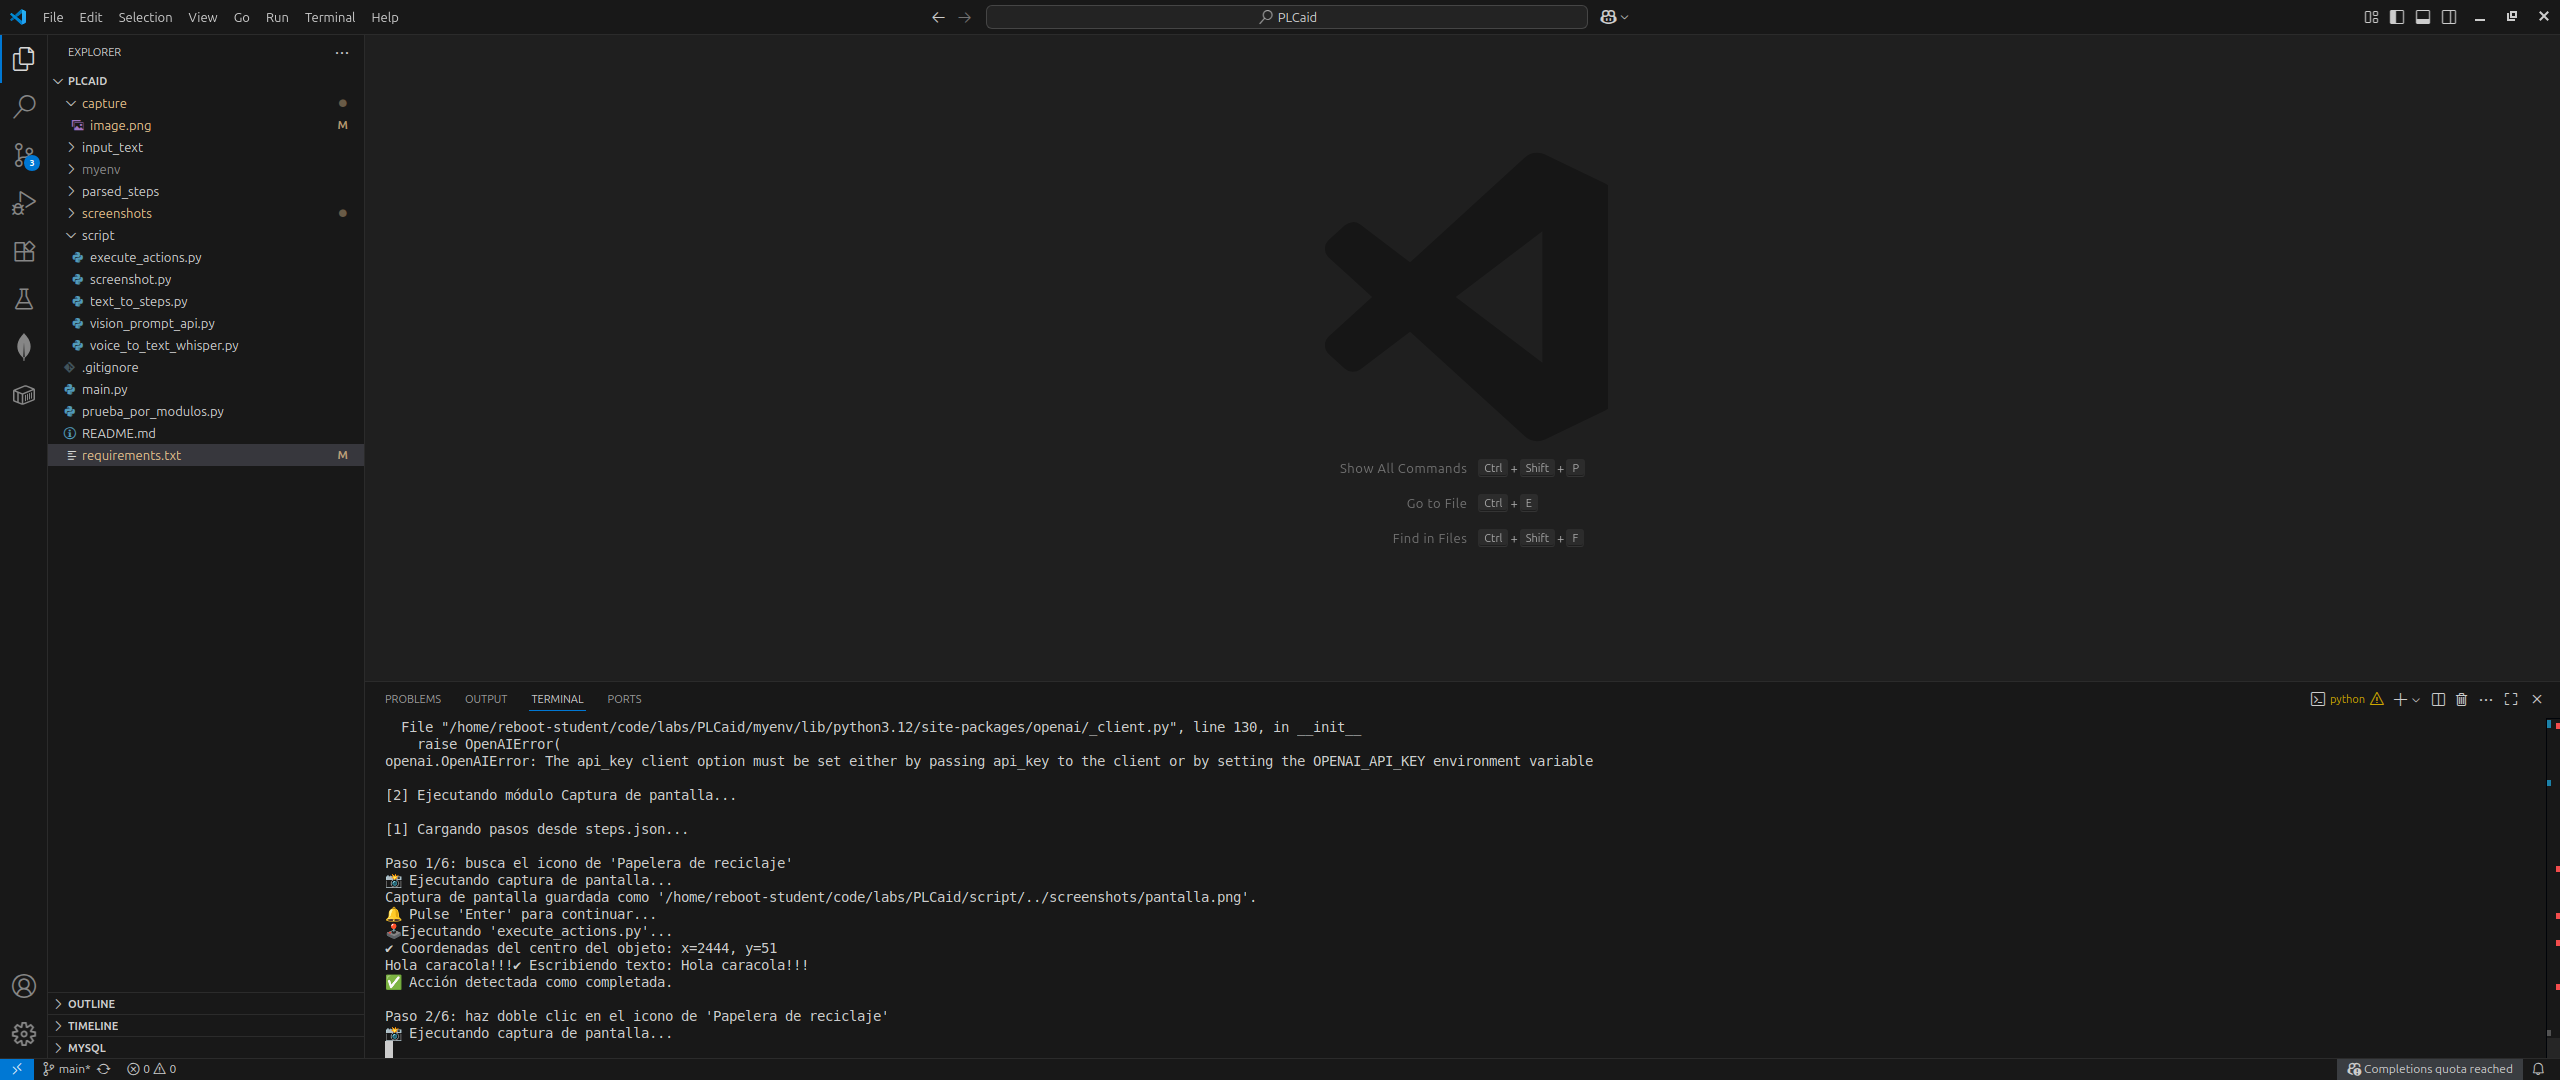
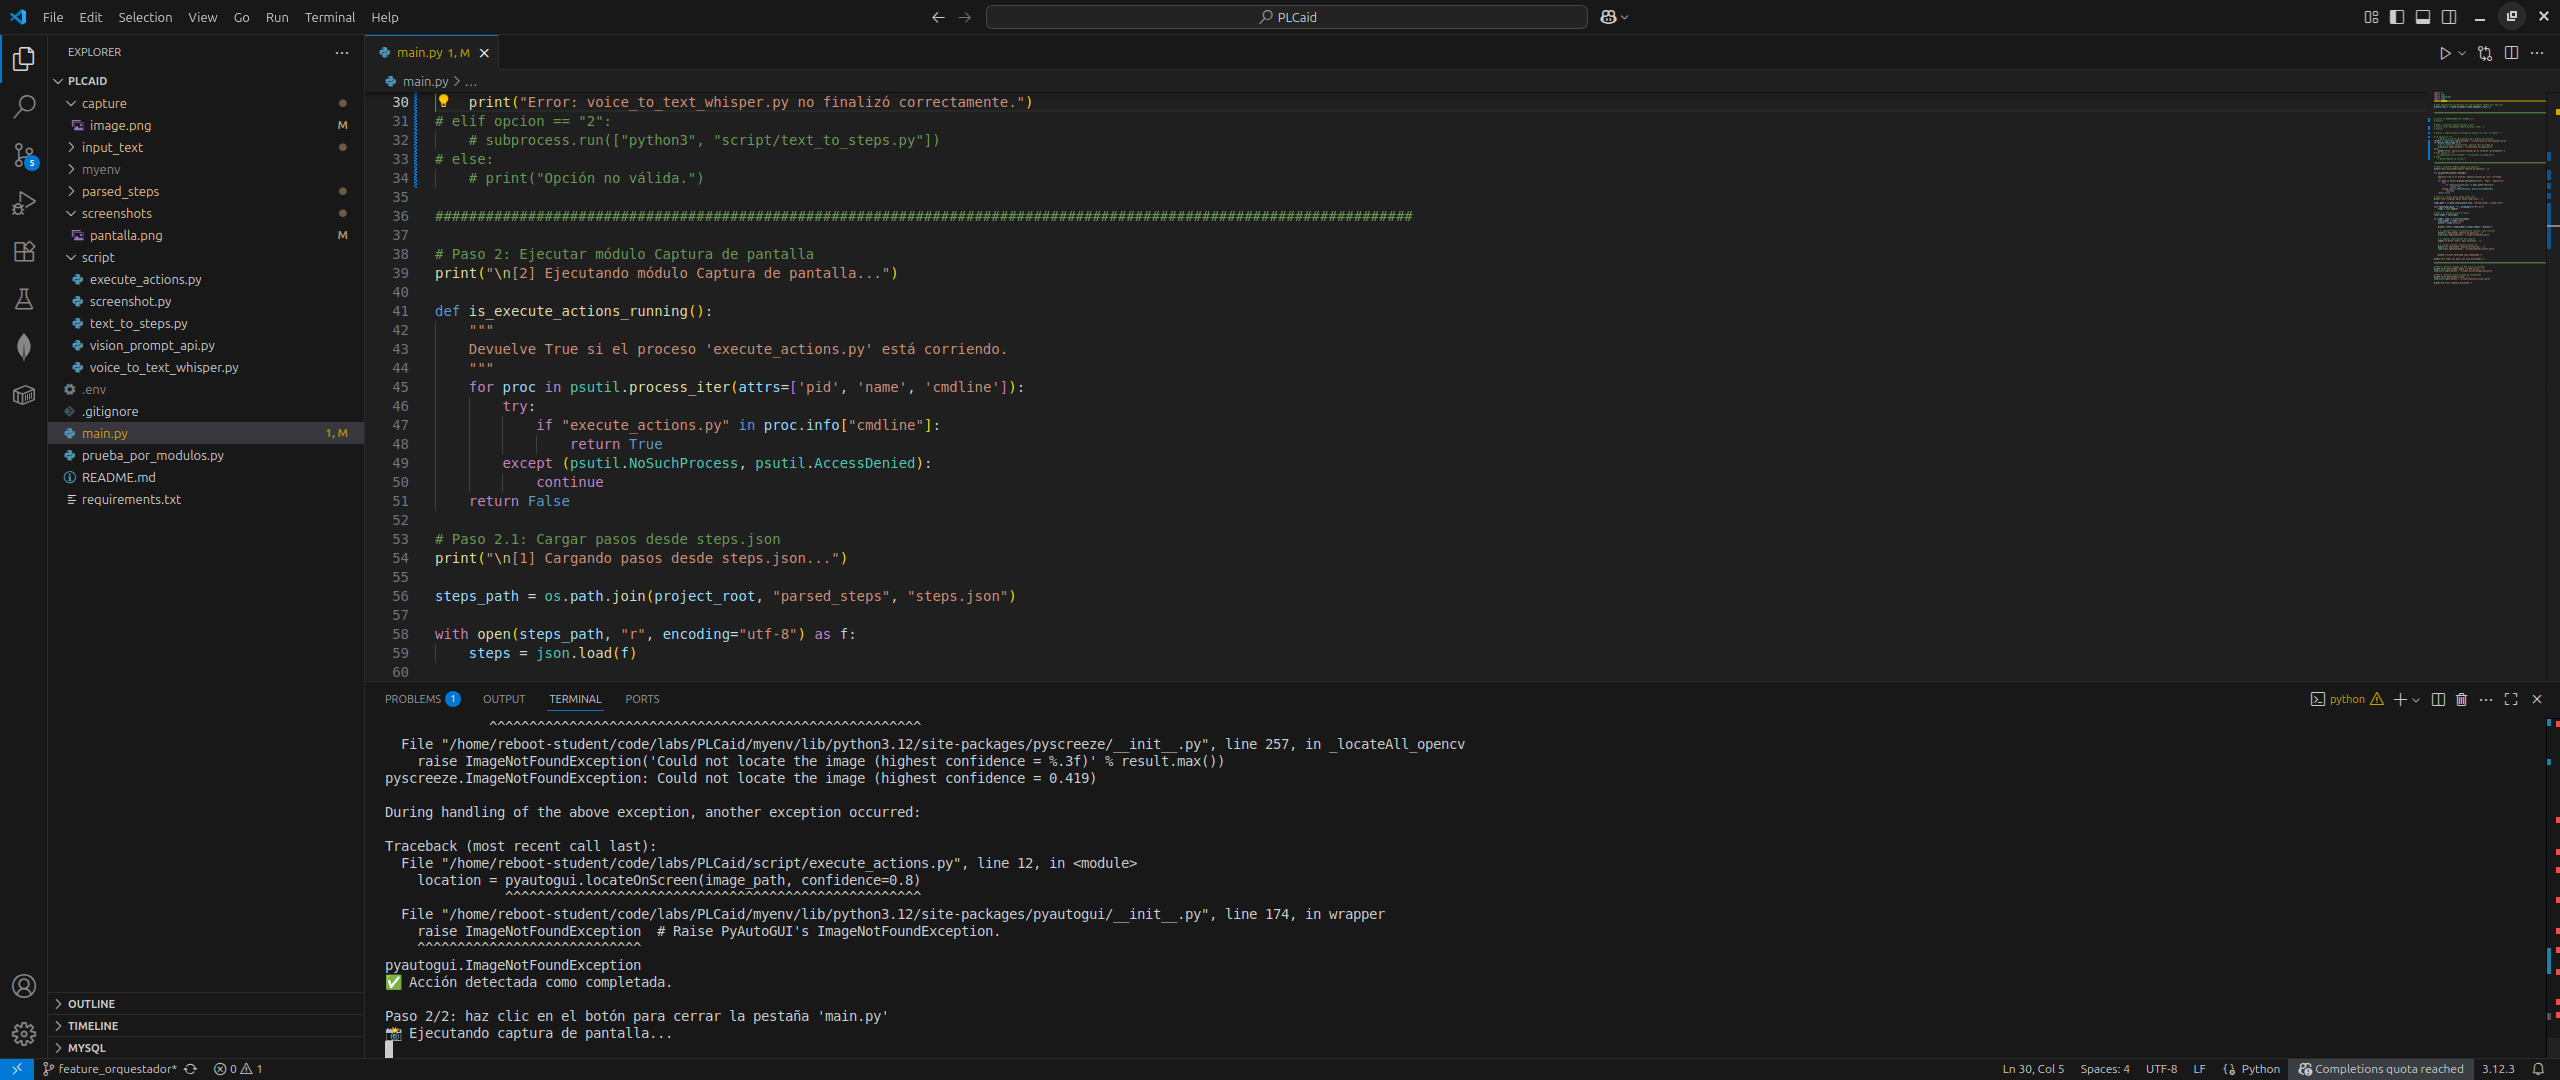
Estoy probando la automatización desde la entrada de audio

diff --git a/main.py b/main.py
@@ -11,27 +11,27 @@ project_root = os.path.dirname(os.path.abspath(__file__))
 ####################################################################################################################
 
 
-print("== ORQUESTADOR GPT CLICKER ==")
-print()
+# print("== ORQUESTADOR GPT CLICKER ==")
+# print()
 
 # Paso 1: Ejecutar módulo Entrada y NLP
-print("\n[1] Ejecutando módulo Entrada y NLP...")
-print()
+# print("\n[1] Ejecutando módulo Entrada y NLP...")
+# print()
 
-opcion = input("Elige la entrada de usuario (1= Voz, 2= Texto): ")
+# opcion = input("Elige la entrada de usuario (1= Voz, 2= Texto): ")
 
-if opcion == "1":
+# if opcion == "1":
     # Ejecuta voice_to_text_whisper.py y espera que termine
-    result1 = subprocess.run(["python3", "script/voice_to_text_whisper.py"])
-    if result1.returncode == 0:
-        # Si el anterior terminó bien, ejecuta text_to_steps.py
-        subprocess.run(["python3", "script/text_to_steps.py"])
-    else:
-        print("Error: voice_to_text_whisper.py no finalizó correctamente.")
-elif opcion == "2":
+result1 = subprocess.run(["python3", "script/voice_to_text_whisper.py"])
+if result1.returncode == 0:
+    # Si el anterior terminó bien, ejecuta text_to_steps.py
     subprocess.run(["python3", "script/text_to_steps.py"])
 else:
-    print("Opción no válida.")
+    print("Error: voice_to_text_whisper.py no finalizó correctamente.")
+# elif opcion == "2":
+    # subprocess.run(["python3", "script/text_to_steps.py"])
+# else:
+    # print("Opción no válida.")
 
 ####################################################################################################################
 
